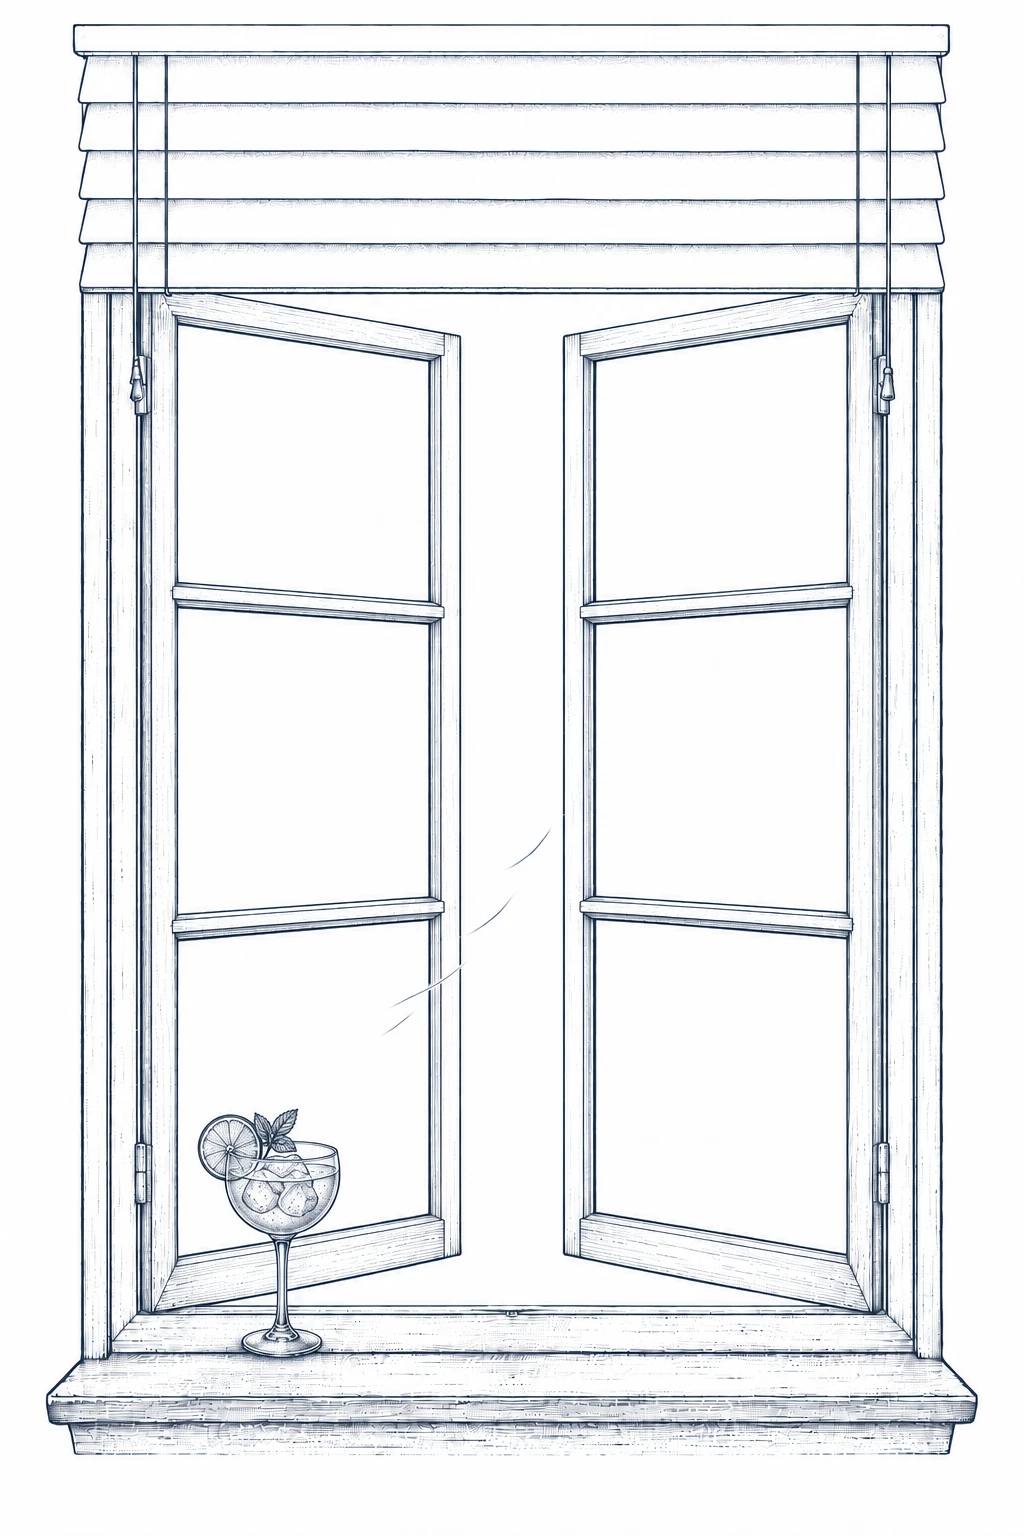
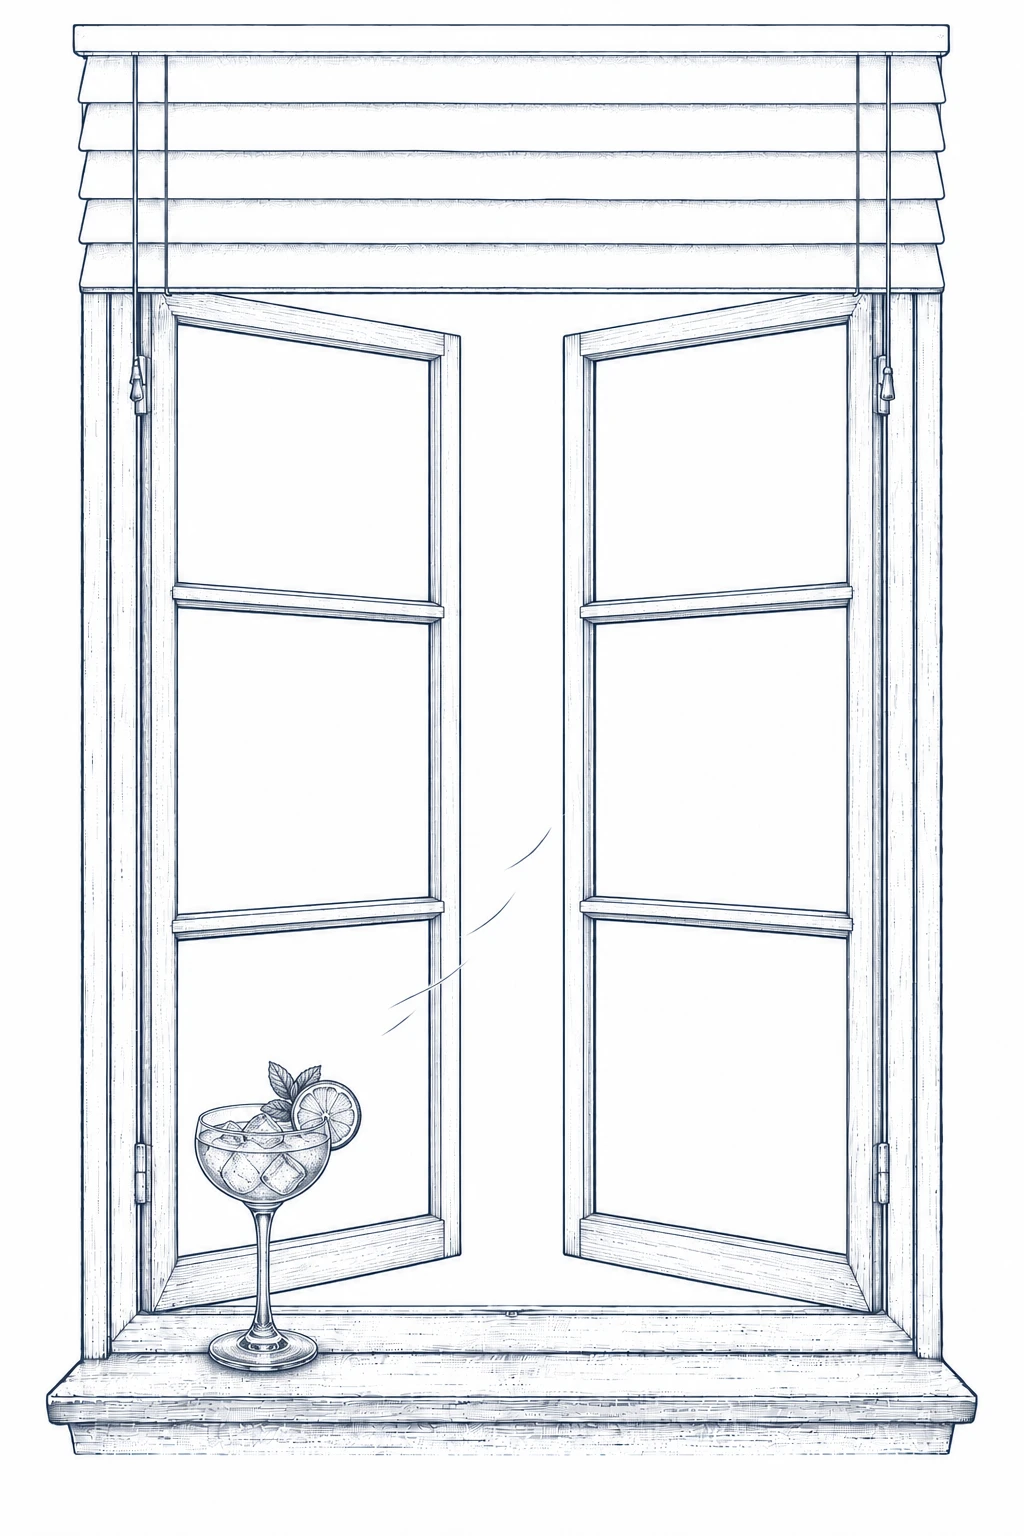
docs(ink): early-summer window with the glass moved to the sill front

diff --git a/design-system/INK_DRAFT.md b/design-system/INK_DRAFT.md
@@ -222,7 +222,7 @@ Make a night version of this exact image, same composition: same apple tree, ben
 **春天 · 窗层（2026-10-27）**：`docs/design/ink/spring-layer-window-{day,night}.webp`（1024×1536）。照初冬窗层同一扇窗改的：霜去掉，两扇窗往里推开，百叶拉起，窗台上换成小玻璃瓶插一枝苹果花，推开的窗缝里还带了两道风的弧线。玻璃和窗缝都留白，景从后面透。夜里那张是黑底金线，花瓶被灯照亮。
 接进分层时要注意：开着的窗没有「六格玻璃」那种整齐的遮罩，推开的窗扇是斜的，叠底挡不住后面的线，景得按这张重新量：玻璃里、窗缝里露出来，窗扇的木框上不露。春天的后院还没出（第一次连窗带院一起画的那张，院子跟冬天对不上）
 
-**初夏 · 窗层（2026-10-27）**：`docs/design/ink/earlysummer-layer-window-{day,night}.webp`（1024×1536）。跟春天是同一扇推开的窗、同样的风线，窗台上换成一杯高脚冰饮（冰块、柠檬片、薄荷叶）。窗扇位置跟春天一致，所以春天量好的景遮罩初夏可以直接共用。（ideas 里原来写初夏「窗推开一条缝」，实际画成跟春天一样整扇推开，就按这样）
+**初夏 · 窗层（2026-10-27）**：`docs/design/ink/earlysummer-layer-window-{day,night}.webp`（1024×1536）。跟春天是同一扇推开的窗、同样的风线，窗台上换成一杯高脚冰饮（冰块、柠檬片、薄荷叶）。第一版杯子太靠里、站在推开的窗扇底边上，透视不对，阿萌重出了一版把杯子挪到窗台前沿（已替换）。窗扇位置跟春天一致，所以春天量好的景遮罩初夏可以直接共用。（ideas 里原来写初夏「窗推开一条缝」，实际画成跟春天一样整扇推开，就按这样）
 
 **秋 · 窗层（2026-10-27）**：`docs/design/ink/autumn-layer-window-{day,night}.webp`（1024×1536）。同一扇推开的窗、同样的风线，窗台上是一杯热红酒（肉桂棒、冒热气）和一片吹进来的枫叶。春、初夏、秋三张开着的窗共用一套窗扇位置
 
